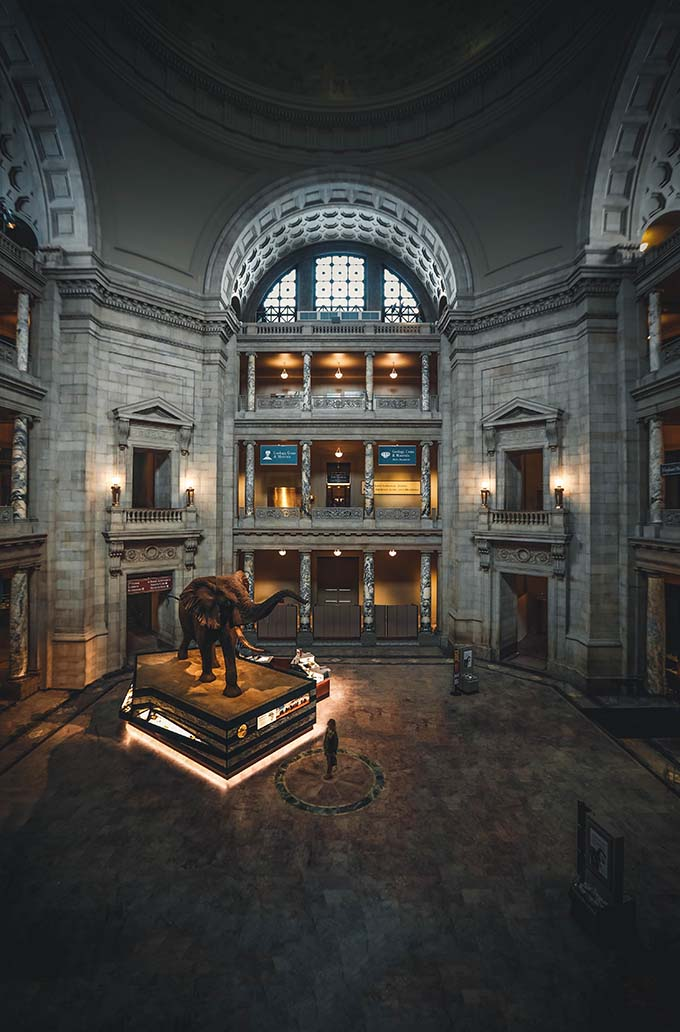
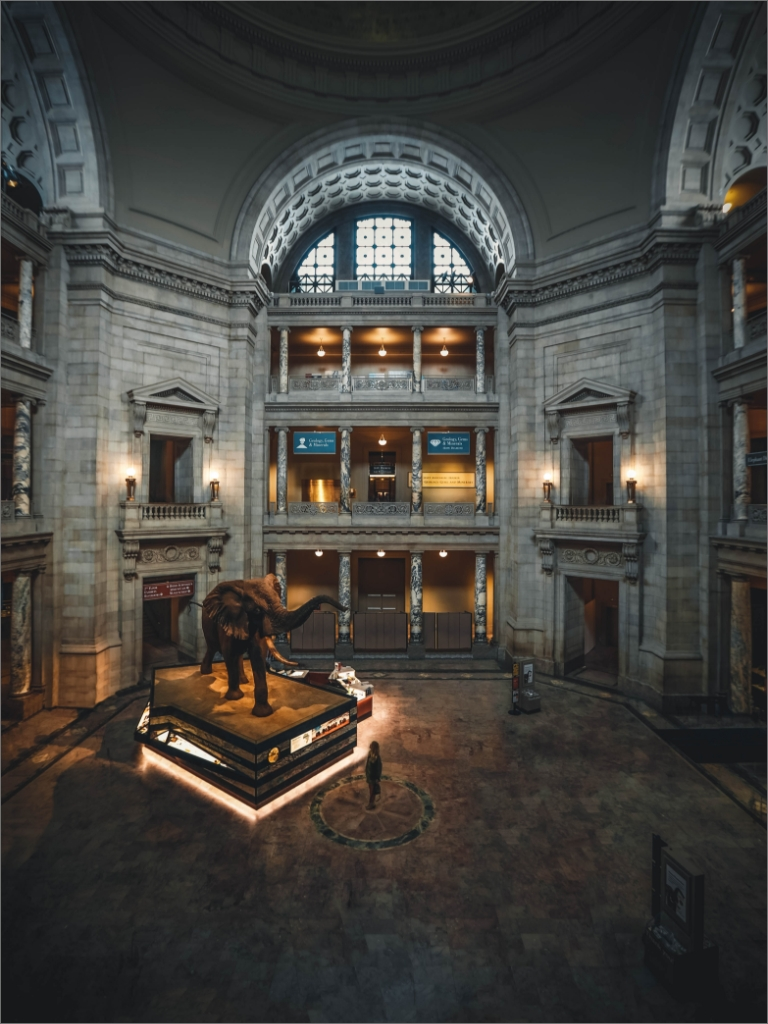
desktop pages added. pictures changed better q

diff --git a/styles/css/visit.css b/styles/css/visit.css
@@ -119,3 +119,64 @@ h3{
     bottom: 3%;
     right: 2%;
 }
+@media (min-width:769px){
+    .visit-field-1{
+        background-image: url('../../images/visit-desktop-image.jpg');
+        background-size: cover;
+        height: 100vh;
+        background-repeat: no-repeat;
+        display: flex;
+        flex-direction: column;
+    }
+    h1{
+        color: #00D6FF;
+        background-color: #433737;
+        padding: 1% 10% 1% 10%;
+        font-size: 70px;
+        text-align: center;
+        justify-self: center;
+        align-self: center;
+        position: static;
+    }
+    h1 a{
+        position: absolute;
+        top: 0px;
+        left: 10px;
+        font-size: 25px;
+        margin: 0;
+    }
+    .location-label, .admission-label, .hours-label, .accessibility-label, .shop-label, .food-label{
+        font-size: 30px;
+    }
+    .location-label:hover, .admission-label:hover, .hours-label:hover, .accessibility-label:hover, .shop-label:hover, .food-label:hover{
+        cursor: pointer;
+        font-size: 35px;
+    }
+    h3{
+        display: none;
+    }
+    .location-card, .admission-card, .hours-card, .accessibility-card, .shop-card, .food-card{
+        border: 5px solid #00D6FF;
+        background-color: rgba(255, 255, 255, 0.9);
+    }
+    #location:checked ~ .location-card , #admission:checked ~ .admission-card, #hours:checked ~ .hours-card, #accessibility:checked ~ .accessibility-card, #shop:checked ~ .shop-card, #food:checked ~ .food-card{
+        display: flex;
+        flex-direction: column;
+        align-items: center;
+        justify-content: center;
+    }
+    .location-card .first-par, .hours-card .first-par, .food-card .first-par{
+        text-align: center;
+    }
+    .hours-card, .accessibility-card{
+        top: 17%;
+        left: 20%;
+        width: 45%;
+        height: 80%;
+    }
+}
+@media (max-width:1080px) and (min-width:768px){
+    h1{
+        font-size: 50px;
+    }
+}

diff --git a/index.html b/index.html
@@ -69,7 +69,7 @@
     <div class="home-field-3">
         <h3>News</h3>
         <h4>Visiting Professor Of Aeronautics</h4>
-        <p class="second-par">It is our pleasure to announce that Prof Sheila Widnall from the Massachusetts Institute of Technologywill be delivering 3 lectures on the development of aeronautics and where the future lies in this exciting ‘space’.</p>
+        <p class="second-par">It is our pleasure to announce that Prof Sheila Widnall from the Massachusetts Institute of Technology will be delivering 3 lectures on the development of aeronautics and where the future lies in this exciting ‘space’.</p>
     </div>
     <div class="home-field-4">
         <h2 id="second-header">"Explore together"</h2>
@@ -106,9 +106,9 @@
     <div class="home-field-4-desktop">
             <div><p id="logo1">C</p><p id="logo2">S</p><p id="logo3">M</p></div>
             <div id="social-networks">
-                <a href="#"><img src="images/facebook-icon.png" alt="link-to-facebook"></a>
-                <a href="#"><img src="images/instagram-icon.png" alt="link-to-instagram"></a>
-                <a href="#"><img src="images/youtube-icon.png" alt="link-to-youtube"></a>
+                <a href="https://facebook.com"><img src="images/facebook-icon.png" alt="link-to-facebook"></a>
+                <a href="https://instagram.com"><img src="images/instagram-icon.png" alt="link-to-instagram"></a>
+                <a href="https://youtube.com"><img src="images/youtube-icon.png" alt="link-to-youtube"></a>
             </div>
             <div id="home-link-desktop">
                 <a href="#"><img src="images/home-icon.png" alt="back-to-the-top-icon"></a>

diff --git a/styles/css/exhibition-spaces.css b/styles/css/exhibition-spaces.css
@@ -109,3 +109,55 @@ h3{
     bottom: 10%;
     left: 17%;
 }
+@media (min-width:769px){
+    .exhibition-field-1{
+        background-image: url('../../images/exhibition-desktop-image.jpg');
+        background-size: cover;
+        height: 100vh;
+        background-repeat: no-repeat;
+        display: flex;
+        flex-direction: column;
+    }
+    h1{
+        color: #FD09FE;
+        background-color: #433737;
+        padding: 1% 10% 1% 10%;
+        font-size: 70px;
+        text-align: center;
+        justify-self: center;
+        align-self: center;
+        position: static;
+    }
+    h1 a{
+        position: absolute;
+        top: 0px;
+        left: 10px;
+        font-size: 25px;
+        margin: 0;
+    }
+    .biology-label, .evolution-label, .ecology-label, .cosmology-label, .robotics-label{
+        font-size: 35px;
+    }
+    .biology-label:hover, .evolution-label:hover, .ecology-label:hover, .cosmology-label:hover, .robotics-label:hover{
+        cursor: pointer;
+        font-size: 40px;
+    }
+    h3{
+        display: none;
+    }
+    .biology-card, .evolution-card, .ecology-card, .cosmology-card, .robotics-card{
+        border: 5px solid #FD09FE;
+        background-color: rgba(255, 255, 255, 0.9);
+    }
+    #biology:checked ~ .biology-card , #evolution:checked ~ .evolution-card, #ecology:checked ~ .ecology-card, #cosmology:checked ~ .cosmology-card, #robotics:checked ~ .robotics-card{
+        display: flex;
+        flex-direction: column;
+        align-items: center;
+        justify-content: center;
+    }
+}
+@media (max-width:1080px) and (min-width:768px){
+    h1{
+        font-size: 50px;
+    }
+}

diff --git a/styles/css/get-involved.css b/styles/css/get-involved.css
@@ -89,3 +89,58 @@ h3{
     bottom: 5%;
     right: 5%;
 }
+@media (min-width:769px){
+    .get-involved-field-1{
+        background-image: url('../../images/involved-desktop-image.jpg');
+        background-size: cover;
+        height: 100vh;
+        background-repeat: no-repeat;
+        display: flex;
+        flex-direction: column;
+    }
+    h1{
+        color: #FFFF00;
+        background-color: #433737;
+        padding: 1% 10% 1% 10%;
+        font-size: 70px;
+        text-align: center;
+        justify-self: center;
+        align-self: center;
+        position: static;
+    }
+    h1 a{
+        position: absolute;
+        top: 0px;
+        left: 10px;
+        font-size: 25px;
+        margin: 0;
+    }
+    .support-label, .internships-label, .volunteer-label{
+        font-size: 30px;
+    }
+    .support-label:hover, .internships-label:hover, .volunteer-label:hover{
+        cursor: pointer;
+        font-size: 35px;
+    }
+    h3{
+        display: none;
+    }
+    .support-card, .internships-card, .volunteer-card{
+        border: 5px solid #FFFF00;
+        background-color: rgba(255, 255, 255, 0.9);
+    }
+    #support:checked ~ .support-card , #internships:checked ~ .internships-card, #volunteer:checked ~ .volunteer-card{
+        display: flex;
+        flex-direction: column;
+        align-items: center;
+        justify-content: center;
+    }
+    .internships-card, .volunteer-card{
+        left: 25%;
+    }
+}
+@media (max-width:1080px) and (min-width:768px){
+    h1{
+        font-size: 50px;
+    }
+}

diff --git a/styles/css/explore.css b/styles/css/explore.css
@@ -89,3 +89,55 @@ h3{
     bottom: 5%;
     right: 10%;
 }
+@media (min-width:769px){
+    .explore-field-1{
+        background-image: url('../../images/explore-desktop-image.jpg');
+        background-size: cover;
+        height: 100vh;
+        background-repeat: no-repeat;
+        display: flex;
+        flex-direction: column;
+    }
+    h1{
+        color: #FFFF00;
+        background-color: #433737;
+        padding: 1% 10% 1% 10%;
+        font-size: 70px;
+        text-align: center;
+        justify-self: center;
+        align-self: center;
+        position: static;
+    }
+    h1 a{
+        position: absolute;
+        top: 0px;
+        left: 10px;
+        font-size: 25px;
+        margin: 0;
+    }
+    .kids-label, .teachers-label, .researchers-label{
+        font-size: 30px;
+    }
+    .kids-label:hover, .teachers-label:hover, .researchers-label:hover{
+        cursor: pointer;
+        font-size: 35px;
+    }
+    h3{
+        display: none;
+    }
+    .kids-card, .teachers-card, .researchers-card{
+        border: 5px solid #FFFF00;
+        background-color: rgba(255, 255, 255, 0.9);
+    }
+    #kids:checked ~ .kids-card , #teachers:checked ~ .teachers-card, #researchers:checked ~ .researchers-card{
+        display: flex;
+        flex-direction: column;
+        align-items: center;
+        justify-content: center;
+    }
+}
+@media (max-width:1080px) and (min-width:768px){
+    h1{
+        font-size: 50px;
+    }
+}

diff --git a/explore.html b/explore.html
@@ -14,7 +14,7 @@
 </head>
 <body>
     <div class="explore-field-1">
-        <h1>Explore <a href="index.html">Home</a></h1>
+        <h1>Explore<a href="index.html">Home</a></h1>
         <div>
             <label class="kids-label" for="kids">Kids</label>
             <input type="checkbox" name="kids" id="kids">

diff --git a/styles/css/home.css b/styles/css/home.css
@@ -316,3 +316,8 @@ h3, h4, .second-par{
         font-size: 1vh;
     }
 }
+@media (max-width:1080px) and (min-width:768px){
+     h1{
+         font-size: 50px;
+     }
+}
